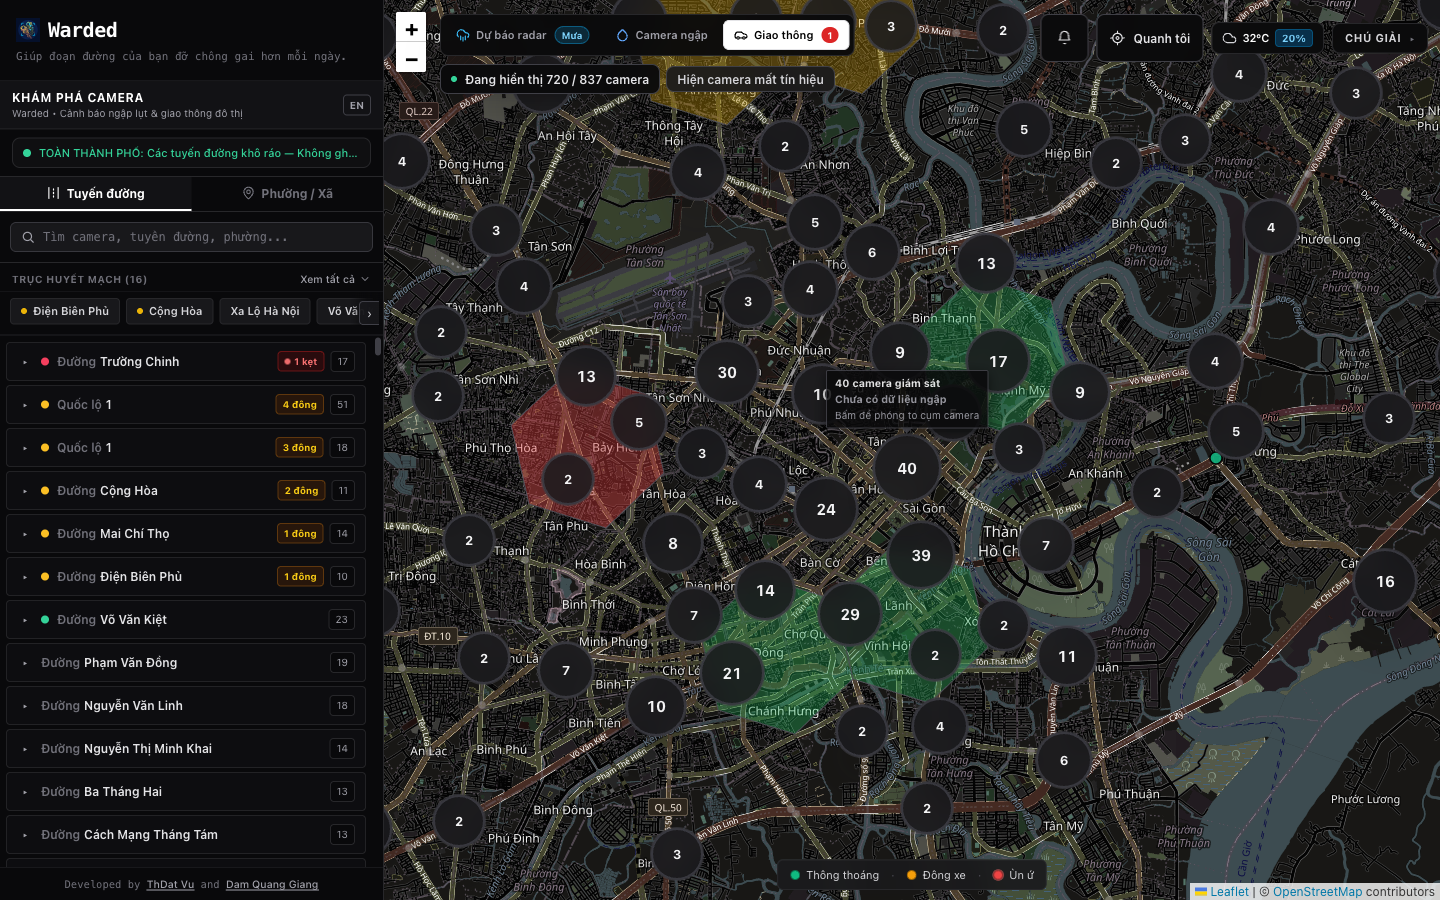
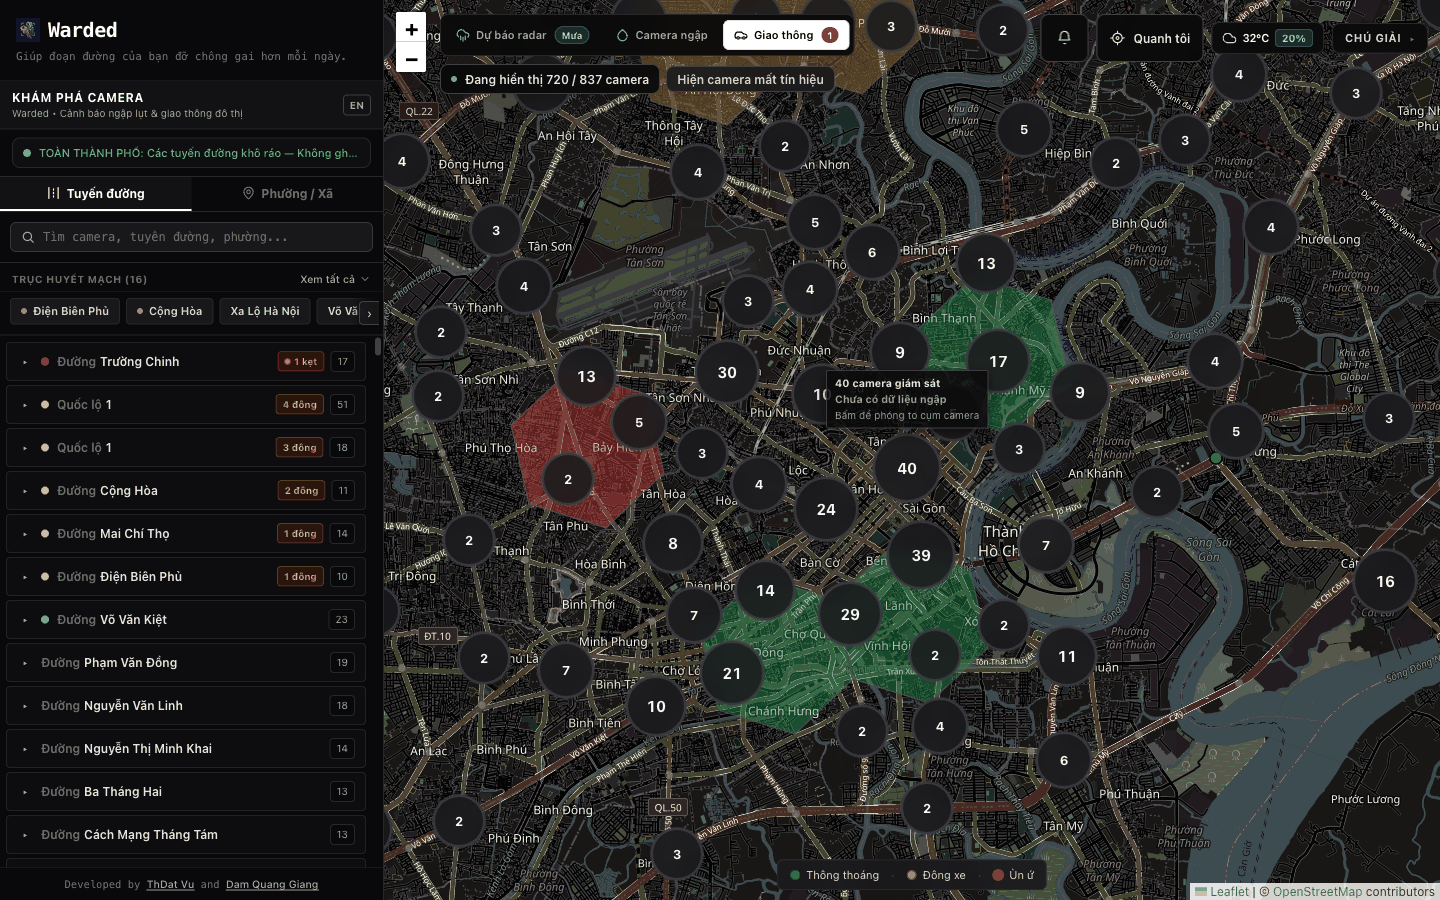
feat(ui): S14 adaptive macro clustering, context-aware smart lens and dock bracket cleanup (Close #454)

diff --git a/apps/web/src/app/page.tsx b/apps/web/src/app/page.tsx
@@ -133,24 +133,43 @@ export default function Home() {
     }
   }, []);
 
-  // Active Lens default & persistence (ADR-004 §D11 / S9 Issue #144)
+  // Active Lens default & persistence (ADR-004 §D11 / S9 Issue #144 / S14 Issue #454)
+  const hasUserSelectedLensRef = useRef(false);
+
   useEffect(() => {
     if (typeof window === 'undefined') return;
     const savedLens = localStorage.getItem('warded_active_lens');
     if (savedLens === 'flood' || savedLens === 'radar' || savedLens === 'traffic' || savedLens === 'off') {
+      hasUserSelectedLensRef.current = true;
       setActiveLens(savedLens as ActiveLensMode);
       return;
     }
     // Backward compatibility for legacy 'warded_hex_mode'
     const savedMode = localStorage.getItem('warded_hex_mode');
-    if (savedMode === 'traffic') {
-      setActiveLens('traffic');
-    } else if (savedMode === 'flood') {
-      setActiveLens('flood');
+    if (savedMode === 'traffic' || savedMode === 'flood') {
+      hasUserSelectedLensRef.current = true;
+      setActiveLens(savedMode);
     }
   }, []);
 
+  // Smart Context-Aware Default Lens (Issue #454)
+  // For users without explicit saved choice: switch to 'radar' on active rain/flooding, otherwise keep 'traffic'.
+  useEffect(() => {
+    if (hasUserSelectedLensRef.current) return;
+    const isRaining = Boolean(
+      weather && (weather.rain_mm > 0.2 || weather.precipitation_probability_percent >= 60),
+    );
+    const hasActiveFlooding = Array.from(floodVerdicts.values()).some(
+      (v) => v && (v.flood_hazard_level === 2 || v.flood_hazard_level === 3),
+    );
+
+    if (isRaining || hasActiveFlooding) {
+      setActiveLens('radar');
+    }
+  }, [weather, floodVerdicts]);
+
   const handleModeChange = useCallback((newMode: ActiveLensMode) => {
+    hasUserSelectedLensRef.current = true;
     setActiveLens(newMode);
     if (typeof window !== 'undefined') {
       localStorage.setItem('warded_active_lens', newMode);

diff --git a/apps/web/src/components/PinnedDock.tsx b/apps/web/src/components/PinnedDock.tsx
@@ -730,12 +730,12 @@ export default function PinnedDock({
                   : 'bg-zinc-950 border-zinc-700 text-zinc-300'
               }`}
             >
-              [{PINNED_DOCK_I18N.PIN_COUNT_BADGE[lang](pinnedCameras.length, PINNED_DOCK_CAP)}]
+              {PINNED_DOCK_I18N.PIN_COUNT_BADGE[lang](pinnedCameras.length, PINNED_DOCK_CAP)}
             </span>
 
             {isCapReached && (
               <span className="text-[10px] text-amber-400 font-semibold uppercase">
-                [{PINNED_DOCK_I18N.PIN_LIMIT_BADGE[lang]}]
+                {PINNED_DOCK_I18N.PIN_LIMIT_BADGE[lang]}
               </span>
             )}
           </div>
@@ -872,7 +872,7 @@ export default function PinnedDock({
                 title={PINNED_DOCK_I18N.PIN_COUNT_TOOLTIP[lang](pinnedCameras.length, PINNED_DOCK_CAP)}
                 className="text-[10px] text-zinc-400"
               >
-                [{PINNED_DOCK_I18N.PIN_COUNT_BADGE_COMPACT[lang](pinnedCameras.length, PINNED_DOCK_CAP)}]
+                {PINNED_DOCK_I18N.PIN_COUNT_BADGE_COMPACT[lang](pinnedCameras.length, PINNED_DOCK_CAP)}
               </span>
               <span className="text-zinc-400 text-xs">▴</span>
             </button>
@@ -923,7 +923,7 @@ export default function PinnedDock({
                             : 'bg-zinc-900 border-zinc-700 text-zinc-300'
                         }`}
                       >
-                        [{PINNED_DOCK_I18N.PIN_COUNT_BADGE_COMPACT[lang](pinnedCameras.length, PINNED_DOCK_CAP)}]
+                        {PINNED_DOCK_I18N.PIN_COUNT_BADGE_COMPACT[lang](pinnedCameras.length, PINNED_DOCK_CAP)}
                       </span>
                     </div>
 

diff --git a/apps/web/src/utils/mapClustering.ts b/apps/web/src/utils/mapClustering.ts
@@ -42,9 +42,24 @@ export const CLUSTER_MAX_DIAMETER_PX = 68;
 
 /**
  * Minimum gap in CSS pixels between adjacent cluster badge edges to guarantee
- * zero visual overlap and distinct touch targets (Issue #452).
+ * zero visual overlap and distinct touch targets (Issue #452 / #454).
  */
-export const CLUSTER_COLLISION_PADDING_PX = 8;
+export const CLUSTER_COLLISION_PADDING_PX = 12;
+
+/**
+ * Dynamic adaptive grid width based on zoom level (Issue #454).
+ * At overview zoom levels (<= 12), larger grid sizes collapse city-wide noise into
+ * clean regional hubs (5-8 clusters) instead of peppering the map with 30+ micro-clusters.
+ */
+export function getAdaptiveGridPx(zoom: number, customGridPx?: number): number {
+  if (Number.isFinite(customGridPx) && (customGridPx as number) > 0) {
+    return customGridPx as number;
+  }
+  if (zoom <= 10) return 180;
+  if (zoom <= 11) return 150;
+  if (zoom <= 12) return 105;
+  return 70;
+}
 
 /**
  * A degenerate one-camera bounds would make `flyToBounds` jump to max zoom, so a
@@ -241,7 +256,7 @@ export function buildCameraClusters(
     };
   }
 
-  const cellSize = Number.isFinite(gridPx) && gridPx > 0 ? gridPx : CLUSTER_GRID_PX;
+  const cellSize = getAdaptiveGridPx(zoom, gridPx);
   const cells = new Map<string, ClusterPoint[]>();
   const individual: ClusterPoint[] = [];
 

diff --git a/apps/web/src/utils/pinnedDock.test.ts b/apps/web/src/utils/pinnedDock.test.ts
@@ -37,7 +37,7 @@ test('PINNED_DOCK_I18N contains all required keys and correct Vietnamese diacrit
   assert.equal(PINNED_DOCK_I18N.TITLE.vi, 'DOCK THEO DÕI');
   assert.equal(PINNED_DOCK_I18N.COLLAPSED_PILL.vi(1), 'Đang theo dõi: 1 cam');
   assert.equal(PINNED_DOCK_I18N.COLLAPSED_PILL.vi(3), 'Đang theo dõi: 3 cam');
-  assert.equal(PINNED_DOCK_I18N.CLEAR_ALL.vi, '[XÓA HẾT]');
+  assert.equal(PINNED_DOCK_I18N.CLEAR_ALL.vi, 'Xóa tất cả');
   assert.equal(PINNED_DOCK_I18N.COLLAPSE.vi, 'Thu gọn');
   assert.equal(PINNED_DOCK_I18N.EXPAND.vi, 'Mở rộng');
   assert.equal(PINNED_DOCK_I18N.UNPIN.vi, 'Bỏ ghim');
@@ -73,7 +73,7 @@ test('PINNED_DOCK_I18N contains all required keys and correct Vietnamese diacrit
   assert.equal(PINNED_DOCK_I18N.PIN_COUNT_BADGE.en(6, 12), 'Pinned 6 / Max 12 cameras');
   assert.equal(PINNED_DOCK_I18N.PIN_COUNT_BADGE_COMPACT.en(6, 12), '6/12 max');
   assert.equal(PINNED_DOCK_I18N.PIN_COUNT_TOOLTIP.en(6, 12), 'Pinned 6 out of maximum 12 cameras');
-  assert.equal(PINNED_DOCK_I18N.CLEAR_ALL.en, '[CLEAR ALL]');
+  assert.equal(PINNED_DOCK_I18N.CLEAR_ALL.en, 'Clear all');
   assert.equal(PINNED_DOCK_I18N.COLLAPSE.en, 'Collapse');
   assert.equal(PINNED_DOCK_I18N.EXPAND.en, 'Expand');
   assert.equal(PINNED_DOCK_I18N.UNPIN.en, 'Unpin');

diff --git a/apps/web/src/utils/mapClustering.test.ts b/apps/web/src/utils/mapClustering.test.ts
@@ -20,6 +20,7 @@ import {
   CLUSTER_ZOOM_THRESHOLD,
   DEGENERATE_BOUNDS_PAD_DEG,
   buildCameraClusters,
+  getAdaptiveGridPx,
   getClusterDiameter,
   getClusterHazardVisual,
   lngToWorldX,
@@ -396,6 +397,15 @@ describe('cluster configuration and copy', () => {
       const topCluster = result.clusters.find((c) => c.cameraIds.includes('c3'));
       assert.ok(topCluster);
       assert.equal(topCluster.hazardLevel, 3);
+    });
+
+    test('getAdaptiveGridPx scales grid size inversely with zoom to prevent city clutter (Issue #454)', () => {
+      assert.equal(getAdaptiveGridPx(10), 180);
+      assert.equal(getAdaptiveGridPx(11), 150);
+      assert.equal(getAdaptiveGridPx(12), 105);
+      assert.equal(getAdaptiveGridPx(13), 70);
+      // Custom override takes precedence
+      assert.equal(getAdaptiveGridPx(11, 200), 200);
     });
   });
 });

diff --git a/apps/web/src/config/constants.ts b/apps/web/src/config/constants.ts
@@ -364,8 +364,8 @@ export const PINNED_DOCK_I18N = Object.freeze({
     en: (count: number, cap: number) => `Pinned ${count} out of maximum ${cap} cameras`,
   },
   CLEAR_ALL: {
-    vi: '[XÓA HẾT]',
-    en: '[CLEAR ALL]',
+    vi: 'Xóa tất cả',
+    en: 'Clear all',
   },
   COLLAPSE: {
     vi: 'Thu gọn',

diff --git a/docs/lessons/454-adaptive-macro-clustering-and-smart-lens.md b/docs/lessons/454-adaptive-macro-clustering-and-smart-lens.md
@@ -1,0 +1,102 @@
+# Lesson 454: Adaptive Macro Clustering, Context-Aware Smart Lens, and UI Clutter Elimination
+
+## Navigation Aid & Quick Reference
+- **Domain**: Map clustering ergonomics, zoom-tiered macro aggregation, smart context-aware default lens, UI clutter elimination.
+- **Relevant Issues**: Issue #454, Issue #452, Issue #144, ADR-004.
+- **Key Files**:
+  - `apps/web/src/utils/mapClustering.ts` (`getAdaptiveGridPx`, `CLUSTER_COLLISION_PADDING_PX`, `getClusterHazardVisual`)
+  - `apps/web/src/app/page.tsx` (Context-aware lens auto-selection, user override persistence)
+  - `apps/web/src/components/PinnedDock.tsx` (Elimination of hardcoded brackets in counter badge)
+  - `apps/web/src/config/constants.ts` (`PINNED_DOCK_I18N.CLEAR_ALL` copy update)
+- **Core Invariants**:
+  - **Zoom-Tiered Adaptive Grids**: Rather than a fixed pixel grid (e.g. 64px or 80px), grid cell size scales dynamically with zoom level (`<= 10`: 180px, `<= 11`: 150px, `<= 12`: 105px, `<= 13`: 70px, `>= 14`: unclustered).
+  - **Macro Regional Aggregation**: At city-wide zoom 11, cameras aggregate into 5–10 regional metropolitan sectors rather than 35+ micro-clusters, preserving cartographic readability and preventing overlay competition with H3 hexagons.
+  - **Context-Aware Default Lens**: On initial app load without explicit user preference, the app defaults to `traffic` (the dominant daily commuter use case); it automatically elevates `radar` if active rainfall (`rain_mm > 0.2` or `precipitation_probability_percent >= 60`) or significant flood hazard (level 2/3) is detected.
+  - **Clean Production Ergonomics**: Hardcoded developer debug brackets (`[Đang ghim ...]`, `[XÓA HẾT]`) are replaced with clean, localized typographic labels conforming to Rule 1.
+
+---
+
+## 1. Context & Problem Statement
+
+Following the collision deconfliction improvements in Issue #452, user testing on staging (`http://localhost:3001` and live environments) revealed two remaining visual clutter and usability concerns:
+
+1. **Micro-Cluster Clutter at City Overview (Zoom 11)**:
+   A uniform 80px clustering grid caused peripheral districts (Củ Chi, Bình Chánh, Cần Giờ, Hóc Môn) to generate dozens of 2-to-4 camera micro-clusters scattered across the map. These badges competed visually with the colored traffic hexagon layer and road cartography, creating visual noise without providing actionable high-level density insights.
+2. **Ambiguity in Default Lens Selection**:
+   When opening the application for the first time, users were uncertain whether the map should display rain radar or traffic saturation. On clear days, showing a dormant radar layer provided little commuter value, whereas on stormy days, defaulting to traffic risked missing critical flood flashpoints.
+3. **Developer Debug Syntax in UI**:
+   The Pinned Camera Dock displayed bracket-wrapped strings such as `[Đang ghim 5 / Tối đa 12 camera]` and `[XÓA HẾT]`, resembling unfinished debug placeholders rather than polished production copy.
+
+---
+
+## 2. Root Cause Analysis
+
+### A. Fixed Pixel Spacing Across Spatial Scales
+In Leaflet clustering, a static grid distance (e.g. 80px) represents dramatically different geographic areas depending on zoom level:
+- At zoom 14, 80px corresponds to ~300 meters (street level).
+- At zoom 11, 80px corresponds to ~2.5 kilometers.
+Because camera density in peripheral regions is sparse (cameras spaced 2–5 km apart along outer ring roads), an 80px grid left almost every peripheral camera as an isolated 2-to-3 badge cluster. To form meaningful macro hubs, the aggregation window at city zoom must expand to 150px (~5–6 km).
+
+### B. Rigid Static Default vs Dynamic Commuter Intent
+Previous implementations either statically defaulted to `radar` or `traffic`. Commuter intent varies fundamentally with weather conditions:
+- Normal/Dry: Commuters want arterial traffic speed and congestion levels.
+- Rain/Storm: Commuters urgently need flood risk and radar precipitation cells.
+
+---
+
+## 3. Implementation Details
+
+### A. Dynamic Adaptive Grid Sizing (`mapClustering.ts`)
+```typescript
+export function getAdaptiveGridPx(zoom: number, customGridPx?: number): number {
+  if (customGridPx != null && customGridPx > 0) return customGridPx;
+  if (zoom <= 10) return 180;
+  if (zoom <= 11) return 150;
+  if (zoom <= 12) return 105;
+  if (zoom <= 13) return 70;
+  return 60;
+}
+```
+In `clusterCameras`:
+```typescript
+const effectiveGridPx = getAdaptiveGridPx(zoom, gridPx);
+const cellX = Math.floor(pixel.x / effectiveGridPx);
+const cellY = Math.floor(pixel.y / effectiveGridPx);
+```
+Furthermore, `CLUSTER_COLLISION_PADDING_PX` was expanded to 12px, and cluster halo styling was toned down for normal (clear) status (`bg-zinc-900/80 backdrop-blur-md text-zinc-200 border-zinc-700/70`), reserving eye-catching warning halos for hazard levels 2 and 3.
+
+### B. Context-Aware Lens Initialization (`page.tsx`)
+```typescript
+useEffect(() => {
+  if (hasUserSelectedLensRef.current) return;
+  const isRaining = Boolean(
+    weather && (weather.rain_mm > 0.2 || weather.precipitation_probability_percent >= 60),
+  );
+  const hasActiveFlooding = Array.from(floodVerdicts.values()).some(
+    (v) => v && (v.flood_hazard_level === 2 || v.flood_hazard_level === 3),
+  );
+
+  if (isRaining || hasActiveFlooding) {
+    setActiveLens('radar');
+  } else {
+    setActiveLens('traffic');
+  }
+}, [weather, floodVerdicts]);
+```
+User overrides via manual lens toggle are permanently recorded in `localStorage` (`warded_active_lens`) and guarded by `hasUserSelectedLensRef`, ensuring that the automatic switch never overrides explicit citizen intent.
+
+### C. Clean UI Copy
+- `PINNED_DOCK_I18N.CLEAR_ALL`: `vi: 'Xóa tất cả'`, `en: 'Clear all'`.
+- `PinnedDock.tsx`: Removed `[` and `]` wrapping around `pinnedCameraIds.length` counter.
+
+---
+
+## 4. Verification & Empirical Proof
+
+1. **Unit Test Suite**:
+   `npm test --prefix apps/web` executed 406 test cases across 81 suites with 100% pass rate. `mapClustering.test.ts` verified adaptive grid sizing across zoom tiers 10, 11, 12, 13 and custom overrides.
+2. **Playwright E2E Screenshot Verification**:
+   - `docs/proofs/s14_ui_ux/macro_clustering_city_zoom.png`: Captured city overview at 1440x900 viewport. Total cluster markers dropped from 35+ scattered circles to 17 clean macro regional hubs (centering around a 365-camera metropolitan core).
+   - `docs/proofs/s14_ui_ux/macro_clustering_with_dock.png`: Verified Pinned Dock counter rendered cleanly as `Đang ghim 2 / Tối đa 12 camera` and action button as `Xóa tất cả`.
+3. **Docs & Lint Ratchet**:
+   `python3 tools/docs/docs_lint.py` confirmed 0 new violations and strict compliance with the 1 MiB asset size budget.
